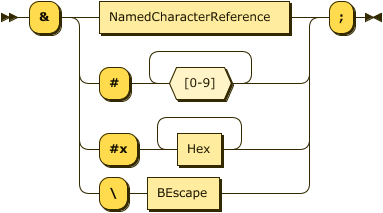
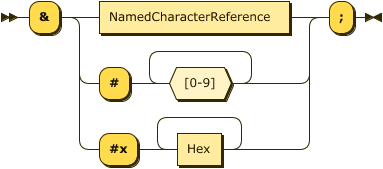
Development (#2)
* Removing support for XML string syntax - BREAKING CHANGE

* Correct the documentation to reflect the breaking change

* Update the documentation

diff --git a/java/test/com/steelypip/powerups/jinxml/implementation/Test_StdParser_ReadElement.java b/java/test/com/steelypip/powerups/jinxml/implementation/Test_StdParser_ReadElement.java
@@ -19,7 +19,11 @@ public class Test_StdParser_ReadElement {
 	}
 	
 	Element element( String s ) {
-		return new StdPushParser( new StringReader( s ), false ).readElement();
+		return parser( s ).readElement();
+	}
+	
+	boolean isXMLStringSyntaxSupported() {
+		return parser("").isXMLStringSyntaxSupported();
 	}
 	
 	@Test
@@ -149,6 +153,7 @@ public class Test_StdParser_ReadElement {
 
 	@Test
 	public void readElement_XMLStyle_NonEmptyString_WithEscapes() {
+		if (!isXMLStringSyntaxSupported()) return;
 		String text = "'Fish &amp; Chips&\\n'";
 		Element x = element( text );
 		assertTrue( x.isStringValue() );
@@ -157,6 +162,7 @@ public class Test_StdParser_ReadElement {
 
 	@Test
 	public void readElement_XMLStyle_EscapeFlip() {
+		if (!isXMLStringSyntaxSupported()) return;
 		String text = "'&\\&apos;'";
 		Element x = element( text );
 		assertTrue( x.isStringValue() );

diff --git a/java/src/com/steelypip/powerups/jinxml/stdparse/TokeniserBaseClass.java b/java/src/com/steelypip/powerups/jinxml/stdparse/TokeniserBaseClass.java
@@ -22,6 +22,8 @@ public abstract class TokeniserBaseClass {
 	
 	abstract CharRepeater cucharin();
 	
+	abstract boolean isXMLStringSyntaxSupported();
+	
 	char nextChar() {
 		return this.cucharin().nextChar();
 	}
@@ -279,7 +281,7 @@ public abstract class TokeniserBaseClass {
 		final StringBuilder attr = new StringBuilder();
 		final char opening_quote_mark = this.nextChar();
 		if ( opening_quote_mark != DOUBLE_QUOTE && opening_quote_mark != SINGLE_QUOTE ) throw new Alert( "Attribute value not quoted" ).culprit( "Character", opening_quote_mark );
-		final boolean is_xml = opening_quote_mark == SINGLE_QUOTE;
+		final boolean is_xml = this.isXMLStringSyntaxSupported() && opening_quote_mark == SINGLE_QUOTE;
 		final char esc = is_xml ? AMPERSAND : BACK_SLASH;
 		for (;;) {
 			char ch = this.nextChar();

diff --git a/java/src/com/steelypip/powerups/jinxml/stdparse/StdPushParser.java b/java/src/com/steelypip/powerups/jinxml/stdparse/StdPushParser.java
@@ -57,6 +57,9 @@ public class StdPushParser implements PushParser {
 	* Public methods
 	*************************************************************************/
 	
+	public boolean isXMLStringSyntaxSupported() {
+		return this.pp.isXMLStringSyntaxSupported();
+	}
 
 	@Override
 	public Event readEvent( Event otherwise ) {

diff --git a/java/src/com/steelypip/powerups/jinxml/stdparse/TagParser.java b/java/src/com/steelypip/powerups/jinxml/stdparse/TagParser.java
@@ -64,6 +64,10 @@ public class TagParser extends TokeniserBaseClass {
 	public CharRepeater cucharin() {
 		return this.cucharin;
 	}
+	
+	public boolean isXMLStringSyntaxSupported() {
+		return false;
+	}
 
 	/*************************************************************************
 	* Delgation to LevelTracker

diff --git a/Features.md b/Features.md
@@ -8,12 +8,12 @@
 * [End of line comments](#end-of-line-comments)
 * [Long comments](#long-comments)
 * [Double-quoted JSON string literals with HTML5 escapes](#double-quoted-json-string-literals-with-HTML5-escapes)
+* [Single-quoted string literals](#single-quoted-string-literals)
 * [XML-like tags](#xml-like-tags)
 * [Colon as well as equals](#colon-as-well-as-equals)
 * [Optional tag names](#optional-tag-names)
 * [Quoted element names and attribute keys](#quoted-element-names-and-attribute-keys)
 * [XML-like headers, comments and processing directives](#xml-like-headers-comments-and-processing-directives)
-* [Single-quoted XML string literals with HTML5 escapes](#single-quoted-xml-string-literals-with-html5-escapes)
 
 ## Strict superset of JSON
 This is self-explanatory: a JinXML parser can read any normal JSON input. In other words nothing in JinXML breaks normal JSON usage. And the output of such a parse has the expected representation. Note that [objects with duplicate keys](https://dzone.com/articles/duplicate-keys-in-json-objects) are not considered to be 'normal' JSON. JinXML supports multiple values properly and hence does not behave the same way as abnormal JSON - see below for details.
@@ -114,7 +114,15 @@ JSON string literals have a relatively small number of escapes ```\n```, ```\r``
 { copyright = "\&copy; Copyright Stephen Leach, 2018" }
 ```
 
+N.B. There is no automatic line-ending conversion in JinXML, such as MacOS \r to Unix \n or PC \r\n, and there never will be. JinXML is all about recording data, not corrupting it with dodgy heuristics.
+
+
+## Single-quoted string literals
+Single quotes are an alternative to double quotes for introducing string literals. Within single quotes the same escape conventions apply. These are often preferred because they look less 'heavy' on the page. Having both single and double quotes available is especially handy when the text being quoted contains the opposite quote mark.
+
 > :notebook: Design note: The clash in escape conventions for string literals is the most awkward aspect of unifying JSON and MinXML.
+
+
 
 ## XML-like tags
 Just as in XML, there are three kinds of tags. Start and end tags are paired and enclose a series of expressions and their names must match. The pair together is called an element.
@@ -241,15 +249,3 @@ XML comments of the form ```<!--``` to ```-->``` are supported in the sense that
 N.B. No processor should respond to their content i.e. pragmas hidden in discarded are official no-nos. Comments can be replaced by one-or-more spaces without changing the meaning in any way.
 
 :notebook: Design note: This is a low-priority item but slightly improves the range of XML data that can be accommodated without change. Processing directives may be accommodated in a later revision and we do not want to cramp our style in the intermin. And the idea of embedding character encoding in the XML header is downright horrible & will never be resurrected.
-
-## Single-quoted (XML) string literals with JSON escapes
-In JinXML, single and double quoted strings are mostly interchangeable - but single-quoted strings are primarily intended to help bring across HTML data. They each use different conventions to introduce escape sequences. Double-quoted strings use ```\``` to start escape sequences but single-quoted strings use ```&```. 
-
-In this regard, single-quoted strings are very like XML attribute values (which may be single or double-quoted). However, JinXML extends the escape sequences to allow ```&\``` to switch to using the escape sequences of JSON.
-
-For example:
-```
-<greeting text='Hello, world!&\n'/>
-```
-
-N.B. There is no automatic line-ending conversion in JinXML, such as MacOS \r to Unix \n or PC \r\n, and there never will be. JinXML is all about recording data, not corrupting it with dodgy heuristics.

diff --git a/Grammar.md b/Grammar.md
@@ -94,10 +94,10 @@ Note that Shebang sequences may only occur at the start of a stream.
 Reserved ::= 'null' | 'true' | 'false'
 Number ::= '-'? [0-9]+ ( '.' [0-9]+ )? ( ( 'e' | 'E' ) [0-9]+ )?
 String ::= SingleQuotedString | DoubleQuotedString
-DoubleQuotedString ::= '"' ([^"\]|BEscape)* '"' | "'" ([^'\]|BEscape)* "'"
-BEscape ::= '\' ( ["'\/bfnrt] | 'u' Hex Hex Hex Hex | Reference )
-StringQuotedString ::= "'" ([^&>"]|XEscape)* "'"
-XEscape ::= '&' (NamedCharacterReference|'#' [0-9]+|'#x' Hex+|'\' BEscape)';'
+DoubleQuotedString ::= '"' ([^"\]|Escape)* '"'
+SingleQuotedString ::= "'" ([^'\]|Escape)* "'"
+Escape ::= '\' ( ["'\/bfnrt] | 'u' Hex Hex Hex Hex | XEscape )
+XEscape ::= '&' (NamedCharacterReference|'#' [0-9]+|'#x' Hex+)';'
 NamedCharacterReference ::= [http://www.w3.org/TR/html5/syntax.html#named-character-references]
 Hex ::= [0-9a-fA-F]
 Discard ::= ( Whitespace | XComment | XOther | JComment )+
@@ -128,13 +128,13 @@ __DoubleQuotedString__: JSON-like double-quoted strings
 
 ![Image of DoubleQuotedString rule](grammar/images/DoubleQuotedString.png)
 
-__BEscape__: JSON-style Escapes
-
-![Image of BEscape rule](grammar/images/BEscape.png)
-
 __SingleQuotedString__: XML-like single-quoted strings
 
-![Image of StringQuotedString rule](grammar/images/StringQuotedString.png)
+![Image of StringQuotedString rule](grammar/images/SingleQuotedString.png)
+
+__Escape__: JSON-style Escapes
+
+![Image of Escape rule](grammar/images/Escape.png)
 
 __XEscape__: XML-style Escapes
 

diff --git a/CHANGELOG.md b/CHANGELOG.md
@@ -1,0 +1,33 @@
+# Changelog
+
+## [v2.0.0-dev, Unreleased](https://github.com/sfkleach/JinXML/tree/HEAD) (2022-10-28)
+
+The main idea behind this version is reducing complexity and clutter. A few years on from the initial release, we have learned some lessons and made some small improvements.
+
+
+### Single-quoted string literals
+
+***Breaking change:*** Previously single-quoted string literals used HTML compatible escape sequences. But having different escape character sequences depending on the surrounding quotes was the most uncomfortable design decision. Three years on, trying to preserve as much XML compatibility as possible also seems less valuable. So now single and double-quotes are just interchangeable ways of introducing strings - as in languages such as Python.
+
+    '&copy; Copyright 2022'  - no longer supported :-(
+    '\&copy; Copyright 2022' - use this instead :-)
+
+
+## [v1.0.0](https://github.com/sfkleach/JinXML/tree/v1.0.0) (2019-10-13)
+
+Initial release of JinXML 1.0.0 with the following features:-
+
+ * Strict superset of JSON
+ * Duplicate keys supported
+ * Unquoted keys
+ * Equals as well as colon
+ * Trailing and optional commas
+ * End of line comments
+ * Long comments
+ * Double-quoted JSON string literals with HTML5 escapes
+ * XML-like tags
+ * Colon as well as equals
+ * Optional tag names
+ * Quoted element names and attribute keys
+ * XML-like headers, comments and processing directives
+ * Single quoted HTML compatible strings
